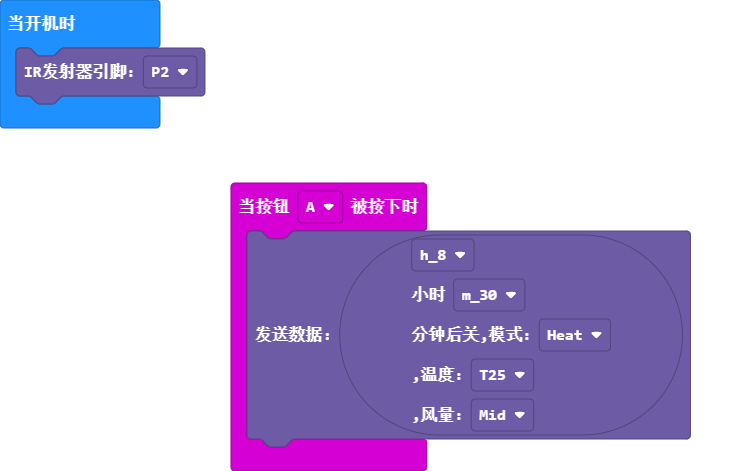
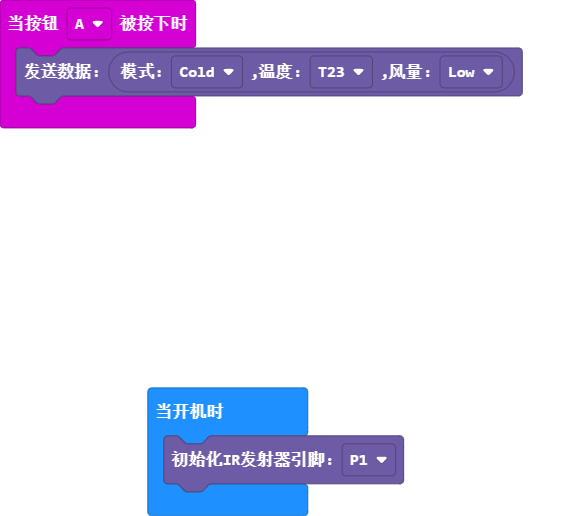
更新 main.blocks, main.ts, midea_IR.ts

diff --git a/midea_IR.ts b/midea_IR.ts
@@ -61,9 +61,18 @@ enum hour_code {
     h_23=91,
     h_24=95,
 }
-let A_code= 178
-
 namespace midea_ir{   
+    let A_code= 178;
+    let waitCorrection=0;
+    let irsend_Pin=AnalogPin.P1;
+    let NEC_L_MARK = 4500;
+    let NEC_L_MARK_SPACE = 4500;
+    let NEC_S_MARK = 560;
+    let NEC_S_MARK_SPACE = 5220;
+    let NEC_BIT_MARK = 560;
+    let NEC_HIGH_SPACE = 1690;
+    let NEC_LOW_SPACE = 560;
+
     /**
     * 返回定时开机码
     */
@@ -124,6 +133,40 @@ namespace midea_ir{
 
 
     /**
+    * 初始化IR
+    */
+    //% block="初始化IR发射器引脚:%ir_pin=AnalogPin"
+    export function initIR(ir_pin:AnalogPin):void
+     // Measure the time we need for a minimal bit (analogWritePin and waitMicros)
+      {
+        irsend_Pin=ir_pin;
+        pins.analogWritePin(irsend_Pin, 0);
+        pins.analogSetPeriod(irsend_Pin, 26);
+        const start = input.runningTimeMicros();
+        const runs = 3200;
+        for (let i = 0; i < runs; i++) {
+          transmitBit(1, 1);
+        }
+        const end = input.runningTimeMicros();
+        waitCorrection = Math.idiv(end - start - runs * 2, runs * 2);
+        basic.showNumber(waitCorrection);
+        NEC_L_MARK -= waitCorrection;
+        NEC_L_MARK_SPACE -= waitCorrection;
+        NEC_S_MARK -= waitCorrection;
+        NEC_S_MARK_SPACE -= waitCorrection;
+        NEC_BIT_MARK -= waitCorrection;
+        NEC_HIGH_SPACE -= waitCorrection;
+        NEC_LOW_SPACE -= waitCorrection;    
+      }
+    
+    function transmitBit(highMicros: number, lowMicros: number): void {
+      pins.analogWritePin(irsend_Pin, 511);
+      control.waitMicros(highMicros);
+      pins.analogWritePin(irsend_Pin, 1);
+      control.waitMicros(lowMicros);
+    }
+
+    /**
     * 返回A码
     */
     //% block="A码"
@@ -146,60 +189,36 @@ namespace midea_ir{
     function getOpenCodeC(tmp:tmp_code,mode:mode_code):number{
         return (tmp << 4) | (mode << 2)
     }
-    let irPin = DigitalPin.P1
 
-    /**
-    * 设置IR发射器引脚
-    */
-    //% block="IR发射器引脚:%ir_pin=DigitalPin"
-    export function setIrPin(ir_pin:DigitalPin){
-        irPin = ir_pin
-    }
-
-    function ledOn (d: number) {
-        while (d > 32) {
-            pins.digitalWritePin(irPin, 1)
-            control.waitMicros(2)
-            pins.digitalWritePin(irPin, 0)
-            d = d - 32
-        }
-    }
-    function ledOff (d: number) {
-       control.waitMicros(d)
-    }
     /**
     * L码
     */
     function LCode(){
-        ledOn(4500)
-        ledOff(4500)
+       transmitBit(NEC_L_MARK, NEC_L_MARK_SPACE);
     }
     /**
     * S码
     */
     function SCode(){
-        ledOn(544)
-        ledOff(5220)
+        transmitBit(NEC_S_MARK, NEC_S_MARK_SPACE);
     }
     /**
     * E码
     */
     function EndCode(){
-        ledOn(544)
+         transmitBit(NEC_BIT_MARK, 0);
     }
     /**
     * 0
     */
     function ZERO() {
-        ledOn(544)
-        ledOff(544)
+        transmitBit(NEC_BIT_MARK, NEC_LOW_SPACE);
     }
     /**
     * 1
     */
     function ONE() {
-        ledOn(544)
-        ledOff(1587)
+        transmitBit(NEC_BIT_MARK, NEC_HIGH_SPACE);
     }
 
      /**
@@ -215,7 +234,6 @@ namespace midea_ir{
         LCode()
         let mask=0x8000
         for(let j=0;j<3;j++){
-            mask=0x8000
             let data=data_arr[j]
             for(let i=0;i<len;i++){
                 if (( data & mask)==0){
@@ -225,35 +243,21 @@ namespace midea_ir{
                 }
                 mask=mask >> 1
             }
+            mask=0x8000
         }
         SCode()
         LCode()
-        mask=0x8000
-        for(let i=0;i<len;i++){
-            if ((codeA & mask)==0){
-                ZERO()
-            }else{
-                ONE()
+        for(let j=0;j<3;j++){
+            let data=data_arr[j]
+            for(let i=0;i<len;i++){
+                if (( data & mask)==0){
+                    ZERO()
+                }else{
+                    ONE()
+                }
+                mask=mask >> 1
             }
-            mask=mask >> 1
-        }
-        mask=0x8000
-        for(let i=0;i<len;i++){
-            if ((codeB & mask)==0){
-                ZERO()
-            }else{
-                ONE()
-            }
-            mask=mask >> 1
-        }
-        mask=0x8000
-        for(let i=0;i<len;i++){
-            if ((codeC & mask)==0){
-                ZERO()
-            }else{
-                ONE()
-            }
-            mask=mask >> 1
+            mask=0x8000
         }
         EndCode()
     }

diff --git a/main.ts b/main.ts
@@ -1,10 +1,4 @@
 input.onButtonPressed(Button.A, function () {
-    midea_ir.sendCode(midea_ir.getTimeingCloseCode(
-    hour_code.h_8,
-    minute_code.m_30,
-    mode_code.Heat,
-    tmp_code.T25,
-    wind_code.Mid
-    ))
+    midea_ir.sendCode(midea_ir.getOpenCode(mode_code.Cold, tmp_code.T23, wind_code.Low))
 })
-midea_ir.setIrPin(DigitalPin.P2)
+midea_ir.initIR(AnalogPin.P1)
